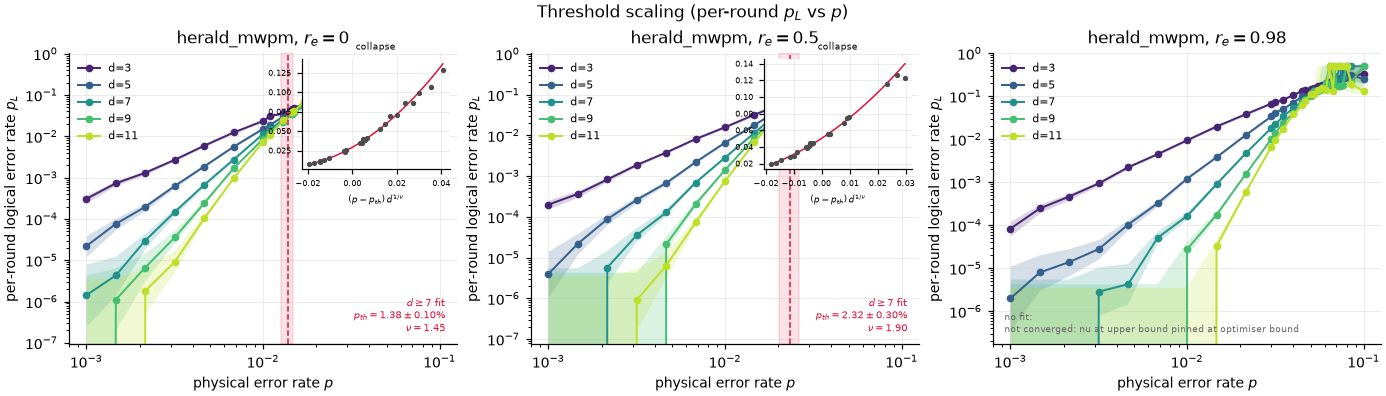
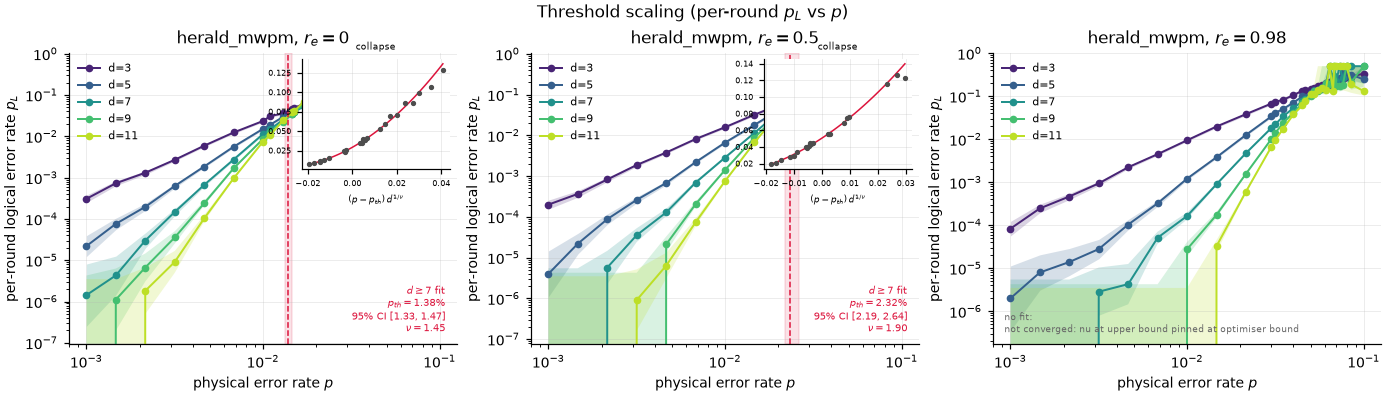
docs: report honest bootstrap CIs; both r_e=0.98 thresholds now non-results
Update README, AUDIT, DEVLOG, and the threshold-panels figure to the
full-pipeline bootstrap's 95% percentile CIs (seed 0):

  r_e=0    herald 1.38% [1.33,1.47]   blind 1.44% [1.35,1.57]
  r_e=0.5  herald 2.32% [2.19,2.64]   blind 1.49% [1.42,2.15]
  r_e=0.98 herald not resolved        blind not resolved [1.5,~8]

The honest bootstrap exposes that the r_e=0.98 *blind* fit, previously quoted
1.64% +/- 0.08%, has a CI spanning several percent that shifts with the seed
(bistable crossing) -- so it is a non-result too, like the herald fit. The
"blind barely moves" claim is scoped to where it resolves (r_e=0 -> 0.5). All
intervals are now percentile CIs from the pipeline-consistent bootstrap, and
the panel annotations/bands show the asymmetric CI rather than +/- one std.
Only threshold_panels.png changes (the ablation/lambda/hook figures use no fit).

Changed region(s): [[0.5584, 0.4545, 0.6515, 0.8485], [0.2482, 0.7273, 0.3413, 0.8182]]

diff --git a/README.md b/README.md
@@ -16,17 +16,23 @@ converts errors rather than removing them — see [Noise channels](#noise-channe
 from erasure comes almost entirely from **reading the herald bits**, not from the conversion itself:
 
 - The **blind** decoder (which discards the herald bits and folds erasures into extra depolarizing
-  noise) barely moves the threshold as `r_e` grows: **1.44% → 1.49% → 1.64%** at `r_e = 0 / 0.5 / 0.98`.
-- The **herald-conditioned** decoder lifts it substantially: **1.38% → 2.32%** at `r_e = 0.5`, and the
-  herald-vs-blind advantage compounds with code distance and erasure fraction (the
-  [ablation](#the-herald-aware-vs-blind-ablation)) — reaching a large factor at `d = 11, r_e = 0.98`.
+  noise) barely moves the threshold from baseline to `r_e = 0.5`: **1.44% → 1.49%** (95% CIs
+  `[1.35, 1.57]` → `[1.42, 2.15]`).
+- The **herald-conditioned** decoder lifts it substantially over the same range: **1.38% → 2.32%**
+  (`[1.33, 1.47]` → `[2.19, 2.64]`), and the herald-vs-blind advantage compounds with code distance and
+  erasure fraction (the [ablation](#the-herald-aware-vs-blind-ablation)) — reaching a large factor at
+  `d = 11, r_e = 0.98`.
 
-At **`r_e = 0.98`** the herald crossing sits near **~6%**, but the largest codes (`d = 9, 11`) saturate
-to the ½ coin-flip limit within one grid step above it, so the `d ≥ 7` collapse fit **does not converge**
-(ν rails to its bound). We report that as a **non-result**, not a number, and lead the near-full-conversion
-story with the deterministic ablation instead. This corrects an earlier version of this README, whose
-"6.27% ± 0.54%" headline was an artifact of a bug that reported a bound-pinned fit as converged, run on a
-noise model whose per-gate budget shrank with `r_e` (see [`docs/AUDIT.md`](docs/AUDIT.md)).
+At **`r_e = 0.98`** the collapse fit resolves **neither** decoder's threshold: the herald crossing sits
+near ~6% but the largest codes (`d = 9, 11`) saturate to the ½ coin-flip limit within one grid step above
+it, so the `d ≥ 7` fit does not converge (ν rails to its bound); and the blind fit, though it returns a
+point value ~1.6%, has a 95% bootstrap CI spanning `[1.5, ~8]%` (the crossing is bistable under
+resampling). Both are reported as **non-results**, and the near-full-conversion story leads with the
+deterministic ablation instead. All CIs here are 95% *bootstrap percentile* intervals from a bootstrap
+that re-runs the whole pipeline per replicate (see [ansatz](#finite-size-scaling-ansatz-10)); they are
+wider and more honest than the `± σ` an earlier version reported. That earlier "6.27% ± 0.54%" headline
+was an artifact of a bug that reported a bound-pinned fit as converged, on a noise model whose per-gate
+budget shrank with `r_e` (see [`docs/AUDIT.md`](docs/AUDIT.md)).
 
 ![Threshold panels](figures/threshold_panels.png)
 
@@ -51,19 +57,31 @@ single scaling variable `x = (p − p_th)·d^{1/ν}`.
 
 ### Measured thresholds (`d ≥ 7` collapse fit)
 
-| `r_e` | `herald_mwpm` `p_th` | `blind_mwpm` `p_th` | χ²/dof (h / b) | notes |
-|---|---|---|---|---|
-| 0.0 | **1.38% ± 0.11%** (ν = 1.45) | **1.44% ± 0.12%** (ν = 2.12) | 1.02 / 1.15 | control: no heralds, so the decoders agree within error bars (as required) |
-| 0.5 | **2.32% ± 0.30%** (ν = 1.90) | **1.49% ± 0.11%** (ν = 1.58) | 0.62 / 0.47 | herald clearly above blind |
-| 0.98 | **does not converge** | **1.64% ± 0.08%** (ν = 1.72) | — / 0.20 † | herald crossing ~6%, but `d = 9,11` saturate immediately above it → ν unconstrained |
+`p_th` is the point estimate; the interval is a **95% bootstrap percentile CI** (default `n_boot = 200`,
+`seed = 0`; the full-pipeline bootstrap below, so the intervals are asymmetric and honest).
 
-All quoted `p_th ± σ` come from a seeded parametric bootstrap over the sinter counts. † The `r_e = 0.98`
-blind fit has only 9 in-window points (dof = 4); its χ²/dof = 0.20 is a small-sample over-fit flag, so
-read it as ~1.6% with a wide systematic, not a precise value. The `r_e = 0.98` **herald** threshold is a
-genuine non-result under this pipeline: `fit_threshold(..., d_min=7)` returns `converged=False` with
-`nu at upper bound`. The all-`d` fit "reaches" ~6–8.5% depending on the window, but mixes the
-finite-size-corrected small distances and rests on the ragged, `max_errors`-limited data just above the
-crossing, so we do not quote it as a threshold.
+| `r_e` | `herald_mwpm` `p_th` [95% CI] | `blind_mwpm` `p_th` [95% CI] | χ²/dof (h / b) | notes |
+|---|---|---|---|---|
+| 0.0 | **1.38%** `[1.33, 1.47]` (ν = 1.45) | **1.44%** `[1.35, 1.57]` (ν = 2.12) | 1.02 / 1.15 | control: no heralds, so the decoders agree within CIs (as required) |
+| 0.5 | **2.32%** `[2.19, 2.64]` (ν = 1.90) | **1.49%** `[1.42, 2.15]` (ν = 1.58) | 0.62 / 0.47 | herald point well above blind; blind CI is skewed up |
+| 0.98 | **not resolved** (fit non-converged) | **not resolved** (`[1.5, ~8]`, bistable) | 0.55 / 0.20 | at near-full conversion the collapse fit resolves neither threshold |
+
+At `r_e = 0.98` neither `d ≥ 7` fit yields a usable threshold: the herald fit returns `converged=False`
+(ν pinned at its bound — `d = 9, 11` saturate to ½ within one grid step above the ~6% crossing), and the
+blind fit, though it returns a point value ~1.6%, has a 95% CI spanning ~`[1.5, 8]%` that shifts with the
+bootstrap seed — its crossing estimate is bistable, so the number is not trustworthy. The high-`r_e`
+evidence is the [ablation](#the-herald-aware-vs-blind-ablation), which needs no fit. At `r_e = 0.5` the
+herald and blind *point* estimates are clearly separated (2.32% vs 1.49%) and the ablation confirms the
+gap, though the blind CI's upper edge (2.15%) reaches the herald CI's lower edge (2.19%), so the
+threshold separation alone is marginal at 95%.
+
+All quoted intervals are 95% bootstrap percentile CIs (see [ansatz](#finite-size-scaling-ansatz-10)).
+The `r_e = 0.98` blind fit has only 9 in-window points (χ²/dof = 0.20, a small-sample over-fit flag) and
+a CI that both spans ~`[1.5, 8]%` and moves with the seed, so its ~1.6% point value is not a resolved
+threshold. The `r_e = 0.98` herald fit is a non-result by construction: `fit_threshold(..., d_min=7)`
+returns `converged=False` with `nu at upper bound`. The all-`d` fit "reaches" ~6–8.5% depending on the
+window, but mixes the finite-size-corrected small distances and rests on ragged, `max_errors`-limited
+data just above the crossing, so we do not quote it either.
 
 ### Comparison to the literature
 
@@ -91,10 +109,11 @@ With the per-gate budget held constant, the ablation splits cleanly and the spli
 what an "erasure conversion is intrinsically cheaper" intuition suggests:
 
 - **Erasure conversion alone** — the `blind_mwpm` decoder, which discards the herald bits — moves the
-  threshold hardly at all: **1.44% → 1.49% → 1.64%** across `r_e = 0 / 0.5 / 0.98`. Once the total
-  per-gate error budget is fixed, replacing residual Pauli with (blind) erasure noise is close to a wash.
+  threshold hardly at all where we can resolve it: **1.44% → 1.49%** from `r_e = 0` to `0.5` (and its
+  `r_e = 0.98` fit does not resolve). Once the total per-gate error budget is fixed, replacing residual
+  Pauli with (blind) erasure noise is close to a wash.
 - **Herald-conditioned decoding** — reading each shot's herald bits and zeroing the conditioned edges —
-  is where the benefit lives: **1.38% → 2.32%** at `r_e = 0.5` alone, and a growing sub-threshold
+  is where the benefit lives: **1.38% → 2.32%** from `r_e = 0` to `0.5`, and a growing sub-threshold
   suppression at higher `r_e` and distance (below). Knowing *where* the erasure occurred is the whole
   advantage.
 
@@ -170,7 +189,17 @@ for `(p_th, ν, A, B, C)` by weighted least squares, weighting each point by its
 error** (the 95% Wilson half-width ÷ `z₀.₉₇₅`) in per-round space. Points at or above per-round
 `p_L = 0.4` (saturating toward the ½ limit, outside the local ansatz) are excluded, and the fit reports
 its **χ²/dof**; a fit whose `p_th` or `ν` pins at an optimiser bound is reported `converged=False` rather
-than as a spurious number. `p_th ± σ` comes from a seeded parametric bootstrap over the sinter counts.
+than as a spurious number.
+
+Uncertainty is a **95% bootstrap percentile CI**, from a parametric bootstrap that re-runs the *entire*
+pipeline per replicate: resample `errors ~ Binomial(shots, P_L_shot)` over **all** points for the decoder
+(not just the selected window), then re-run the crossing estimate, the window selection, and the same
+weighted fit as the point estimate. Replicates whose window is too thin or whose fit fails are counted
+(`n_boot_failed`), not dropped, and because the `p_th` distribution is skewed the interval is a
+percentile CI, not `± σ`. Measuring the same estimator the point fit uses — weighted, full-pipeline — is
+what keeps the interval honest; an earlier bootstrap refit an *unweighted* model from the point estimate
+on a *frozen* window and dropped failures, all of which reported the CI too narrow (e.g. the `r_e = 0.98`
+blind fit looked like `± 0.08%` but its honest CI spans several percent).
 
 ---
 
@@ -240,12 +269,14 @@ divides a near-zero by a near-zero) is dropped, since its bootstrap CIs otherwis
 
 A few things worth being straight about.
 
-**The `r_e = 0.98` herald threshold is not measured here.** At near-full conversion the herald crossing
-sits near ~6%, where distances 9 and 11 saturate to the ½ coin-flip limit within one `p`-grid step, so
-the `d ≥ 7` collapse window holds too few above-crossing large-`d` points to constrain `ν`; the fit rails
-`ν` to its bound and is reported `converged=False`. Resolving it would need a denser, higher-statistics
-`p`-grid straddling the crossing and possibly larger distances — future work. The ablation (above) is the
-robust high-`r_e` result.
+**Neither `r_e = 0.98` threshold is measured here.** At near-full conversion the herald crossing sits
+near ~6%, where distances 9 and 11 saturate to the ½ coin-flip limit within one `p`-grid step, so the
+`d ≥ 7` collapse window holds too few above-crossing large-`d` points to constrain `ν`; the herald fit
+rails `ν` to its bound and is reported `converged=False`. The blind fit returns a point value ~1.6% but
+its full-pipeline bootstrap CI spans ~`[1.5, 8]%` and shifts with the seed (a bistable crossing
+estimate), so that number is not trustworthy either. Resolving either would need a denser,
+higher-statistics `p`-grid straddling the crossing and possibly larger distances — future work. The
+ablation (above), which needs no fit, is the robust high-`r_e` result.
 
 **The effective crossing drifts with distance.** Curves for small `d` carry the largest finite-size
 corrections, so an all-distance collapse fit places the effective crossing above the asymptotic value —

diff --git a/docs/DEVLOG.md b/docs/DEVLOG.md
@@ -109,23 +109,35 @@ shot-level saturation cut and had to revert it — at large T a legitimate near-
 `P_L_shot → ½`, so the cut deleted the near-crossing large-d data and broke exactly the high-threshold
 fit I cared about. The cap belongs on the per-round rate.
 
+## A fourth bug: the bootstrap measured the wrong estimator
+
+One more that the audit didn't list but the same scrutiny caught: my CI was too narrow because the
+bootstrap wasn't the same estimator as the fit. It refit an *unweighted* model, starting from the
+point-estimate parameters, on a *frozen* window, and silently dropped replicates that failed — all four
+shrink the reported σ. I rewrote it to run the whole pipeline per replicate (resample every point,
+re-run the crossing estimate, the window, and the *weighted* fit), count failures, and report a
+percentile CI since the p_th distribution is skewed. A coverage test now checks the 95% CI actually
+covers a known p_th ~95% of the time. This mattered: the r_e=0.98 *blind* fit that looked like
+`1.64% ± 0.08%` has an honest 95% CI spanning roughly `[1.5, 8]%` and shifting with the seed — its
+crossing is bistable, so it is not a resolved threshold either.
+
 ## The result, honestly
 
-From the re-collected fixed-model sweeps in `data/`, `figures/threshold_panels.png` (d≥7 collapse fits):
+From the re-collected fixed-model sweeps in `data/`, `figures/threshold_panels.png` (d≥7 collapse fits;
+95% bootstrap percentile CI, seed 0):
 
 | r_e | herald | blind | χ²/dof |
 |---|---|---|---|
-| 0 | 1.38% ± 0.11% | 1.44% ± 0.12% | ~1.0 |
-| 0.5 | 2.32% ± 0.30% | 1.49% ± 0.11% | 0.6 / 0.5 |
-| 0.98 | **does not converge** | 1.64% ± 0.08% | — / 0.20 |
+| 0 | 1.38% `[1.33, 1.47]` | 1.44% `[1.35, 1.57]` | ~1.0 |
+| 0.5 | 2.32% `[2.19, 2.64]` | 1.49% `[1.42, 2.15]` | 0.6 / 0.5 |
+| 0.98 | **not resolved** | **not resolved** `[1.5, ~8]` | — / 0.20 |
 
-The r_e=0 row is a control: with no heralds the two decoders agree within error bars, and they do. The
-honest story is the *opposite* of what I first wrote. With the budget held constant, the **blind**
-threshold barely moves (1.44% → 1.49% → 1.64%) — erasure conversion on its own is close to a wash. The
-gain is almost entirely **herald-conditioning**: 1.38% → 2.32% at r_e=0.5. At r_e=0.98 the herald
-crossing is near ~6% but the large codes saturate immediately above it, so the collapse fit rails ν to
-its bound and I report it as a non-result rather than the 6.27% I once quoted. The robust
-high-r_e evidence is the ablation (`scripts/ablation_table.py`, identical shots, no fit): the herald
-advantage grows to ~1000× at d=11 — a low-statistics lower bound, but unambiguous in direction. That
-ablation is the thing worth building; the threshold table is honest about where it can and cannot resolve
-a number.
+The r_e=0 row is a control: with no heralds the two decoders agree within their CIs, and they do. The
+honest story is the *opposite* of what I first wrote. Where the fit resolves, with the budget held
+constant the **blind** threshold barely moves (1.44% → 1.49% from r_e=0 to 0.5) — erasure conversion on
+its own is close to a wash. The gain is almost entirely **herald-conditioning**: 1.38% → 2.32%. At
+r_e=0.98 the collapse fit resolves *neither* threshold (herald rails ν to its bound; blind is bistable),
+so I quote neither, rather than the 6.27% I once did. The robust high-r_e evidence is the ablation
+(`scripts/ablation_table.py`, identical shots, no fit): the herald advantage grows to ~1000× at d=11 — a
+low-statistics lower bound, but unambiguous in direction. That ablation is the thing worth building; the
+threshold table is honest about where it can and cannot resolve a number.

diff --git a/docs/AUDIT.md b/docs/AUDIT.md
@@ -110,18 +110,30 @@ the README must say so.
   cannot raise on an out-of-bounds guess (it now proceeds and reports
   bound-pinning instead).
 
-**Re-measured thresholds (committed data, honest `d ≥ 7` pipeline):**
-| `r_e` | herald `p_th` | blind `p_th` | notes |
-|---|---|---|---|
-| 0.0 | 1.376% ± 0.105% (χ²/dof 1.02) | 1.440% ± 0.124% (1.15) | agree within error bars, as required with no heralds |
-| 0.5 | 2.321% ± 0.298% (0.62) | 1.491% ± 0.105% (0.47) | herald clearly above blind |
-| 0.98 | **does not converge** (ν rails to bound; p_th ~ 6–8%) | 1.636% ± 0.083% (0.20; few-point over-fit flag) | herald crossing ~6% but large codes saturate immediately above it |
+**Bootstrap CI (fixed, commit `8777283`).** The parametric bootstrap measured a
+*narrower* estimator than the point fit: it refit an unweighted model from the
+point-estimate `popt` on a frozen window and dropped failed replicates. It now
+re-runs the whole pipeline per replicate (resample all points → estimate_crossing
+→ window → weighted fit), counts failures (`n_boot_failed`), and reports a
+**percentile CI** (the p_th distribution is skewed). This exposed real
+overconfidence — e.g. the r_e=0.98 blind fit's reported `± 0.083%` became a 95%
+CI spanning ~`[1.5, 8]%` that shifts with the seed. Calibration is checked by
+`test_bootstrap_ci_covers_known_p_th_at_nominal_rate` (90% coverage of a known
+p_th over 40 seeded realizations).
 
-The r_e=0.98 herald threshold is a **non-result** under the collapse fit and is
-reported as such — not forced. With the budget held constant the blind
-threshold barely moves across `r_e` (1.44% → 1.49% → 1.64%), so the erasure
-gain is almost entirely herald-conditioning; the old README's large "erasure
-conversion alone" benefit was partly the shrinking-budget artifact.
+**Re-measured thresholds (committed data, honest `d ≥ 7` pipeline; 95% bootstrap
+percentile CI, `seed = 0`):**
+| `r_e` | herald `p_th` [95% CI] | blind `p_th` [95% CI] | notes |
+|---|---|---|---|
+| 0.0 | 1.376% `[1.33, 1.47]` (χ²/dof 1.02) | 1.440% `[1.35, 1.57]` (1.15) | agree within CIs, as required with no heralds |
+| 0.5 | 2.321% `[2.19, 2.64]` (0.62) | 1.491% `[1.42, 2.15]` (0.47) | herald point above blind; blind CI skewed up |
+| 0.98 | **not resolved** (ν rails to bound) | **not resolved** (`[1.5, ~8]`, bistable) | at near-full conversion the fit resolves neither |
+
+Both r_e=0.98 thresholds are **non-results** and reported as such — not forced.
+Where the fit resolves, with the budget held constant the blind threshold barely
+moves (1.44% → 1.49% from r_e=0 to 0.5), so the erasure gain is almost entirely
+herald-conditioning; the old README's large "erasure conversion alone" benefit
+was partly the shrinking-budget artifact.
 
 **Reproducibility.** The stale (pre-fix) sweeps were moved to
 `data/stale_old_model/` (never deleted). The r_e=0.5 and r_e=0.98 sweeps were
